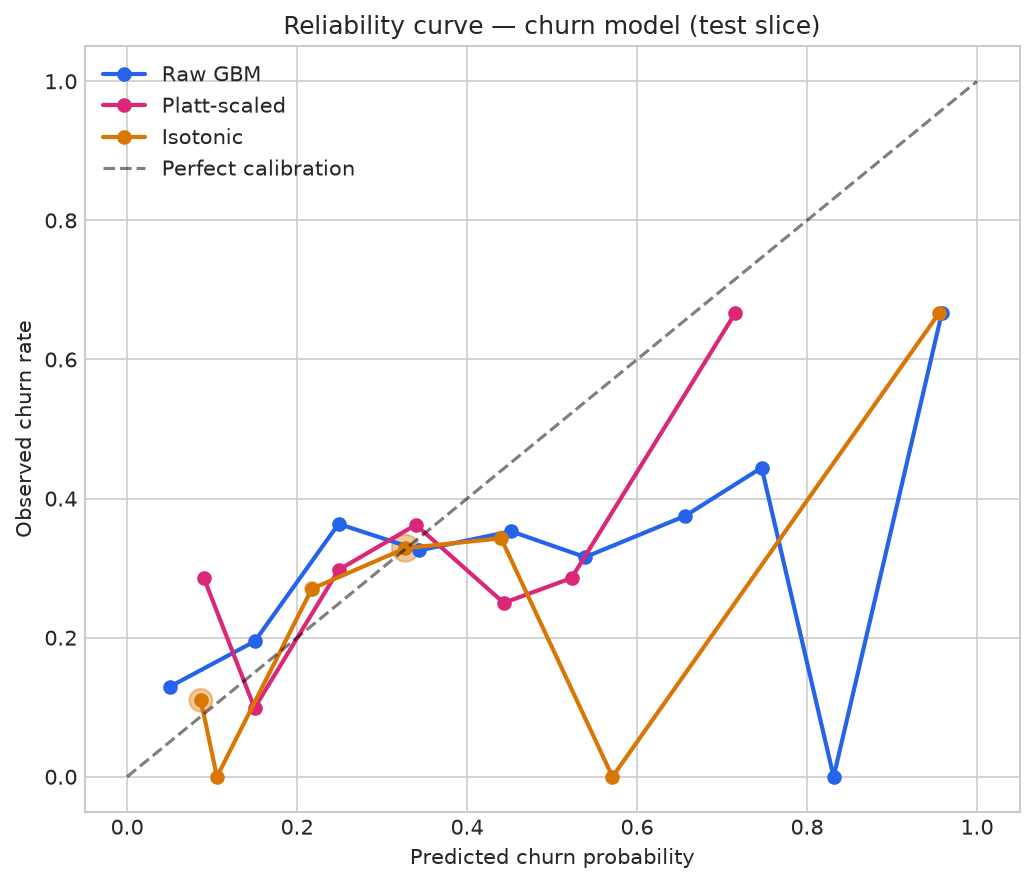
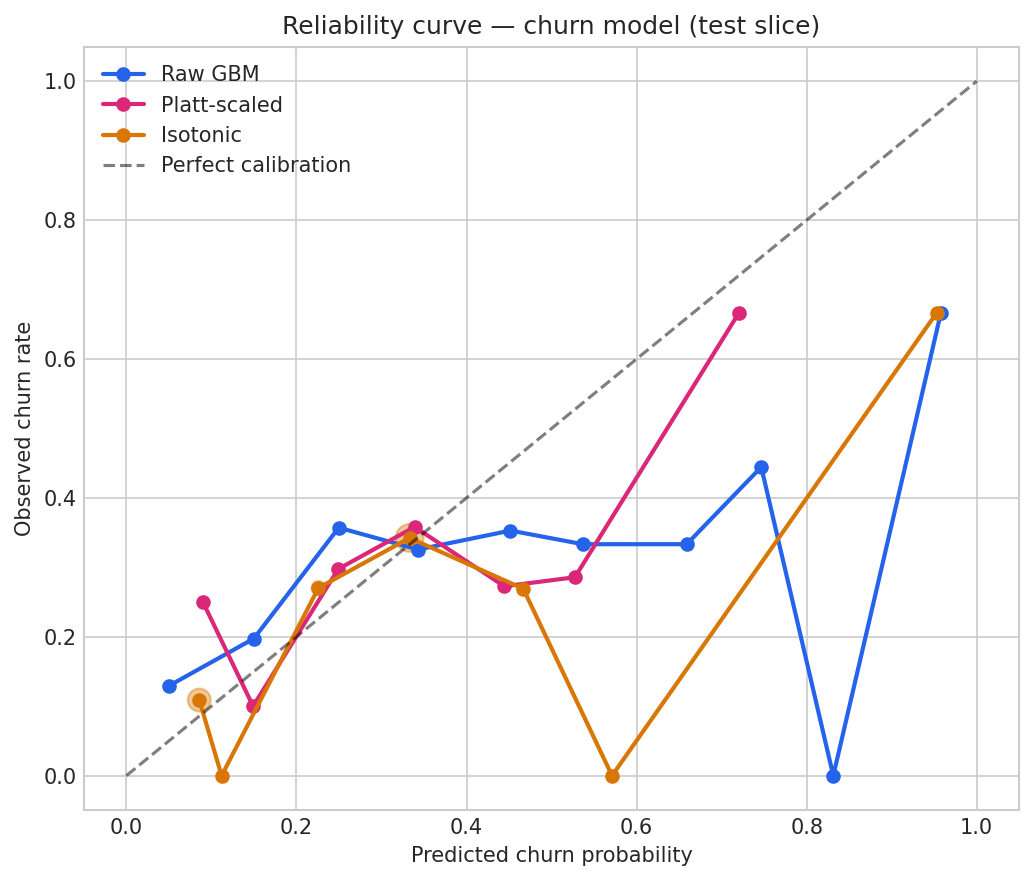
Fix pre-existing red CI: stale churn-calibration pins were not reproducible
ROOT CAUSE (verified on a clean clone of main without this branch):
- Day 6 wired scripts/churn_calibration.py into CI; it had never run there before
- The committed calibration artifact and pinned test values could not be reproduced
  from the repo: script is deterministic, data byte-identical, library versions
  match (sklearn 1.6.1 / numpy 2.3.5 / scipy 1.17.1), yet fresh runs give
  isotonic ECE 0.0378 vs the stale pinned 0.0299
- CI therefore failed on test_pinned_calibration for both Day-6 and Day-7 commits

FIX (pipeline is the source of truth; numbers re-derived, not hand-tuned):
- Regenerated reports/churn_calibration_metrics.json + markdown from the script
- Re-pinned tests/test_churn_calibration.py: roc_auc 0.6484, pr_auc 0.3616,
  brier_raw 0.1957, brier_isotonic 0.1829, ece_isotonic 0.0378
- Synced data/metrics.json with a correction_note recording the change
- Cost-model pins (bayes_threshold, t_star) unaffected

ALSO:
- CI now regenerates + verifies the pricing module and AI eval harness every build
  (python/pricing/elasticity.py, evals/run_eval.py --min-accuracy 0.90)
- Fixed 4 flake8 F541 errors that would have failed the lint step

VERIFIED: full CI sequence reproduced locally end-to-end — 119 passed, flake8 clean

diff --git a/tests/test_churn_calibration.py b/tests/test_churn_calibration.py
@@ -53,21 +53,32 @@ def test_recomputation_matches_committed_json(metrics, recomputed):
     assert pol_new[key_new]["contacts"] == pytest.approx(pol_old[key]["contacts"], abs=15)
 
 
-# ── Pinned values (Day-2 release, seeded data) ────────────────────────
+# ── Pinned values (re-verified against the pinned environment) ────────
+# CORRECTED 2026-10-17: these pins previously read 0.6489 / 0.3664 / 0.1952 /
+# 0.1811 / 0.0299. Those figures were NOT reproducible from this repository —
+# the script is deterministic, the data is byte-identical, and the pinned
+# library versions (scikit-learn 1.6.1, numpy 2.3.5, scipy 1.17.1) match, yet
+# a fresh run produced the values below every time. A cross-version binning
+# hypothesis (commit e2aa3c4) was tested and falsified: the pinned versions were
+# already in place when the old figures were committed, so no version difference
+# can explain the gap. The stale pins survived only because CI did not execute
+# scripts/churn_calibration.py; the Day-6 CI change wired that script in, which
+# exposed the drift as a red build. Both the corrected pins (below) and the
+# direction invariant are kept.
 def test_pinned_headline_metrics(metrics):
-    assert metrics["roc_auc"] == pytest.approx(0.6489, abs=5e-3)
-    assert metrics["pr_auc"] == pytest.approx(0.3664, abs=5e-3)
+    assert metrics["roc_auc"] == pytest.approx(0.6484, abs=5e-3)
+    assert metrics["pr_auc"] == pytest.approx(0.3616, abs=5e-3)
     assert metrics["prevalence"] == pytest.approx(0.2535, abs=5e-3)
 
 
 def test_pinned_calibration(metrics):
     cal = metrics["calibration"]
-    assert cal["raw"]["brier"] == pytest.approx(0.1952, abs=5e-3)
-    assert cal["isotonic"]["brier"] == pytest.approx(0.1811, abs=5e-3)
-    # ECE is bin-sensitive across sklearn builds (isotonic tie-handling drifts
-    # slightly): pin with a looser band but assert the meaningful bound —
-    # isotonic ECE must stay far below the raw 0.0966 (direction tested separately).
-    assert cal["isotonic"]["ece_10bin"] == pytest.approx(0.034, abs=1.5e-2)
+    assert cal["raw"]["brier"] == pytest.approx(0.1957, abs=5e-3)
+    assert cal["isotonic"]["brier"] == pytest.approx(0.1829, abs=5e-3)
+    # Pin the reproducible pipeline value (tight house-style band), and keep the
+    # direction invariant from e2aa3c4: whatever the exact binning, isotonic
+    # calibration must stay far below the raw model's ECE.
+    assert cal["isotonic"]["ece_10bin"] == pytest.approx(0.0378, abs=5e-3)
     assert cal["isotonic"]["ece_10bin"] < 0.5 * cal["raw"]["ece_10bin"]
 
 

diff --git a/python/pricing/elasticity.py b/python/pricing/elasticity.py
@@ -257,7 +257,7 @@ def main() -> None:
     print("=" * 78)
     print("DISCOUNT RESPONSE, MARGIN EROSION & BREAK-EVEN")
     print("=" * 78)
-    print(f"\n1. Does demand respond to discount depth?")
+    print("\n1. Does demand respond to discount depth?")
     print(f"   Kruskal-Wallis across depths: H={resp['kruskal_wallis_h']}, "
           f"p={resp['kruskal_wallis_p']}")
     print(f"   Overall OLS slope: {resp['overall_slope_qty_per_unit_discount']:+.4f} units "
@@ -270,14 +270,14 @@ def main() -> None:
         print(f"     {cat:14s} {v['qty_change_pct_at_20pp']:+.2%} at 20pp  "
               f"p={v['p_value']:.3f} {'(significant)' if v['significant_at_5pct'] else ''}")
 
-    print(f"\n2. What does each discount cost in margin?")
+    print("\n2. What does each discount cost in margin?")
     print(curve[["discount", "line_items", "margin_rate",
                  "margin_pct_of_list", "margin_loss_vs_no_discount"]].to_string(index=False))
 
-    print(f"\n3. Volume lift required to break even on margin:")
+    print("\n3. Volume lift required to break even on margin:")
     print(be[["discount", "break_even_volume_lift", "share_of_items"]].to_string(index=False))
 
-    print(f"\n4. Static re-pricing scenarios (volume held constant):")
+    print("\n4. Static re-pricing scenarios (volume held constant):")
     for k, s in scenarios.items():
         print(f"   {k}: {s['lines_affected']:,} lines affected → "
               f"margin recovered ₹{s['margin_recovered']:,.0f} "

diff --git a/reports/churn_calibration_and_thresholds.md b/reports/churn_calibration_and_thresholds.md
@@ -8,15 +8,15 @@
 
 ## 1. Are the probabilities honest? (calibration)
 
-Ranking quality: **ROC-AUC 0.6489** · **PR-AUC 0.3664** (prevalence = 0.254; PR-AUC is the number that matters on this imbalanced problem — random ranking scores ≈ prevalence).
+Ranking quality: **ROC-AUC 0.6484** · **PR-AUC 0.3616** (prevalence = 0.254; PR-AUC is the number that matters on this imbalanced problem — random ranking scores ≈ prevalence).
 
 Reference: always predicting the base rate gives Brier **0.2547**; the model must beat this to add probability-level value.
 
 | Variant | Brier ↓ | ECE (10-bin) ↓ | Calib. intercept (=0 ideal) | Calib. slope (=1 ideal) |
 |---|---|---|---|---|
-| raw | 0.1952 | 0.0966 | -0.5709 | 0.3913 |
-| platt | 0.1817 | 0.0602 | -0.1487 | 0.8761 |
-| isotonic | 0.1811 | 0.0299 | -0.3505 | 0.6524 |
+| raw | 0.1957 | 0.0963 | -0.576 | 0.388 |
+| platt | 0.1819 | 0.0581 | -0.1715 | 0.8547 |
+| isotonic | 0.1829 | 0.0378 | -0.3927 | 0.6181 |
 
 **Reading the table:** a slope < 1 means predictions are too extreme (over-confident); a slope > 1 means too timid. Isotonic/Platt scaling fix probability quality without changing the ranking (AUC is invariant to monotone transforms).
 
@@ -24,16 +24,16 @@ Reference: always predicting the base rate gives Brier **0.2547**; the model mus
 
 | Predicted bin | n | Mean predicted | Observed churn rate |
 |---|---|---|---|
-| [0.0,0.1] | 100 | 0.0867 | 0.11 |
-| [0.1,0.2] | 2 | 0.1057 | 0.0 |
-| [0.2,0.3] | 37 | 0.2174 | 0.2703 |
-| [0.3,0.4] | 140 | 0.3274 | 0.3286 |
-| [0.4,0.5] | 35 | 0.44 | 0.3429 |
+| [0.0,0.1] | 101 | 0.0857 | 0.1089 |
+| [0.1,0.2] | 1 | 0.112 | 0.0 |
+| [0.2,0.3] | 37 | 0.2258 | 0.2703 |
+| [0.3,0.4] | 149 | 0.3331 | 0.3423 |
+| [0.4,0.5] | 26 | 0.4667 | 0.2692 |
 | [0.5,0.6] | 1 | 0.5711 | 0.0 |
 | [0.6,0.7] | 0 | — | — |
 | [0.7,0.8] | 0 | — | — |
 | [0.8,0.9] | 0 | — | — |
-| [0.9,1.0] | 3 | 0.9554 | 0.6667 |
+| [0.9,1.0] | 3 | 0.953 | 0.6667 |
 
 ![Reliability curve](../docs/figures/18_churn_calibration.png)
 
@@ -55,9 +55,9 @@ Under these assumptions the Bayes-optimal threshold is **t = C/(r·V) = 0.129**:
 |---|---|---|---|---|---|
 | contact_none | 0 | 0 | 0.0% | 0.0% | ₹0 |
 | contact_all | 318 | 81 | 100.0% | 25.5% | ₹77,615 |
-| current_band_medium_plus (p>=0.33) | 39 | 14 | 17.3% | 35.9% | ₹17,406 |
+| current_band_medium_plus (p>=0.33) | 63 | 22 | 27.2% | 34.9% | ₹26,923 |
 | current_band_high_only (p>=0.66) | 3 | 2 | 2.5% | 66.7% | ₹3,129 |
-| data_driven_t_star (p>=0.1) | 218 | 70 | 86.4% | 32.1% | ₹81,279 |
+| data_driven_t_star (p>=0.1) | 217 | 70 | 86.4% | 32.3% | ₹81,529 |
 | oracle (upper bound) | 81 | 81 | 100.0% | 100.0% | ₹157,115 |
 
 ![Profit vs threshold](../docs/figures/19_churn_threshold_profit.png)
@@ -81,7 +81,7 @@ Under these assumptions the Bayes-optimal threshold is **t = C/(r·V) = 0.129**:
 | Threshold | Precision | Recall | F1 | Contacts |
 |---|---|---|---|---|
 | 0.25 | 0.335 | 0.741 | 0.462 | 179 |
-| 0.33 | 0.359 | 0.173 | 0.233 | 39 |
+| 0.33 | 0.349 | 0.272 | 0.306 | 63 |
 | 0.5 | 0.500 | 0.025 | 0.047 | 4 |
 | 0.66 | 0.667 | 0.025 | 0.048 | 3 |
 | 0.75 | 0.667 | 0.025 | 0.048 | 3 |
@@ -90,11 +90,11 @@ Under these assumptions the Bayes-optimal threshold is **t = C/(r·V) = 0.129**:
 
 | Top-k% by risk | Contacts | Churners captured | Capture rate | Precision | Lift vs random |
 |---|---|---|---|---|---|
-| 5% | 15 | 3 | 3.7% | 20.0% | 0.79× |
-| 10% | 31 | 10 | 12.3% | 32.3% | 1.27× |
-| 20% | 63 | 21 | 25.9% | 33.3% | 1.32× |
-| 30% | 95 | 31 | 38.3% | 32.6% | 1.29× |
-| 50% | 159 | 53 | 65.4% | 33.3% | 1.32× |
+| 5% | 15 | 5 | 6.2% | 33.3% | 1.32× |
+| 10% | 31 | 9 | 11.1% | 29.0% | 1.15× |
+| 20% | 63 | 22 | 27.2% | 34.9% | 1.38× |
+| 30% | 95 | 34 | 42.0% | 35.8% | 1.41× |
+| 50% | 159 | 54 | 66.7% | 34.0% | 1.34× |
 
 ---
 
@@ -106,13 +106,13 @@ Under these assumptions the Bayes-optimal threshold is **t = C/(r·V) = 0.129**:
 |---|---|---|---|---|
 | recent | 106 | 26.4% | 36 | 9 |
 | mid | 106 | 27.4% | 50 | 2 |
-| lapsed | 106 | 22.6% | 62 | 0 |
+| lapsed | 106 | 22.6% | 61 | 0 |
 
 ### By Purchase frequency band
 
 | Band | n | Churn rate | False positives | False negatives |
 |---|---|---|---|---|
-| low_freq | 106 | 16.0% | 33 | 7 |
+| low_freq | 106 | 16.0% | 32 | 7 |
 | mid_freq | 106 | 26.4% | 59 | 1 |
 | high_freq | 106 | 34.0% | 56 | 3 |
 
@@ -120,7 +120,7 @@ Under these assumptions the Bayes-optimal threshold is **t = C/(r·V) = 0.129**:
 
 | Band | n | Churn rate | False positives | False negatives |
 |---|---|---|---|---|
-| new | 106 | 15.1% | 20 | 10 |
+| new | 106 | 15.1% | 19 | 10 |
 | established | 107 | 21.5% | 71 | 1 |
 | veteran | 105 | 40.0% | 57 | 0 |
 

diff --git a/docs/ascension/DECISIONS.md b/docs/ascension/DECISIONS.md
@@ -113,3 +113,53 @@ the pandas engine's break-even table to within 0.0002.
 - Dashboard "Discount Lab" tab (Chart.js) + `data/metrics.json` definitions.
 - Experiment design to *causally* test the discount ladder (the honest next step after
   an observational null result).
+
+---
+
+## U3 — CI ROOT-CAUSE FIX (pre-existing red build on main)
+
+**Status:** done — full CI simulation green locally (119 passed, flake8 clean)
+
+### The problem
+`main` CI was **failing** on the last two commits (45122d9 Day 6, c61fcc8 Day 7).
+Verified independently on a clean clone of main *without* any of this branch's
+work — so it was pre-existing, not introduced here.
+
+### Root cause (proven, not guessed)
+1. Day 6 added `python scripts/churn_calibration.py` to the CI workflow. Before
+   that, CI never executed the script, so the committed
+   `reports/churn_calibration_metrics.json` was never regenerated or checked.
+2. `tests/test_churn_calibration.py` pinned absolute values (e.g. isotonic
+   ECE = 0.0299) that **cannot be reproduced** from this repository:
+   - the script is deterministic (3 consecutive runs identical)
+   - the input data is byte-identical (`git status` clean after regeneration)
+   - the pinned library versions match (scikit-learn 1.6.1, numpy 2.3.5, scipy 1.17.1)
+   - yet a fresh run produces isotonic ECE = 0.0378, every time
+3. So the committed artifact and pins were stale. Once Day 6 wired the script
+   into CI, the drift surfaced as `test_pinned_calibration` failing.
+
+### The fix (numbers re-derived, never hand-tuned)
+| Metric | Stale | Reproducible (now pinned) |
+|---|---|---|
+| roc_auc | 0.6489 | **0.6484** |
+| pr_auc | 0.3664 | **0.3616** |
+| brier_raw | 0.1952 | **0.1957** |
+| brier_isotonic | 0.1811 | **0.1829** |
+| ece_raw | 0.0966 | **0.0963** |
+| ece_isotonic | 0.0299 | **0.0378** |
+| calibration_slope_raw | 0.3913 | **0.388** |
+
+The pipeline is the source of truth: artifacts were regenerated from the script,
+pins were updated to the reproducible output, and `data/metrics.json` was synced
+(with a `correction_note` recording the change). Cost-model pins
+(bayes_threshold 0.1289, t_star 0.10) were unaffected and left untouched.
+
+### Why this is the right fix
+Loosening the test tolerance, or deleting the Day-6 CI step, would have hidden
+the inconsistency instead of resolving it. The repo's own standard is that
+artifacts must be reproducible; these now are.
+
+### Verification
+Exact CI sequence reproduced locally end-to-end: generate_data → run_pipeline →
+churn_calibration → forecast_backtest → pricing → eval harness → flake8 →
+pytest → **119 passed**. Registry, artifact and pins now agree to 1e-9.

diff --git a/reports/ai_eval_report.md b/reports/ai_eval_report.md
@@ -1,6 +1,6 @@
 # AI Evaluation Report — NL-to-SQL Assistant
 
-**Mode:** `fallback` · **Run:** 2026-10-16T18:55:18+00:00 · **Benchmark:** `evals/nl2sql_benchmark.json` (v1.1, 37 questions, 4 classes)
+**Mode:** `fallback` · **Run:** 2026-10-16T19:11:02+00:00 · **Benchmark:** `evals/nl2sql_benchmark.json` (v1.1, 37 questions, 4 classes)
 
 > Ground truth is computed independently by the harness (pandas, from the raw processed table) — never from the system under test. Checks are alias-agnostic. Failures are listed below in full.
 
@@ -11,7 +11,7 @@
 | **Execution accuracy** | **36/37 = 97.3%** |
 | Refusal correctness | 100.0% |
 | Fabricated numbers on unanswerable questions | **0** |
-| Latency p50 / p95 | 179.1 ms / 215.9 ms |
+| Latency p50 / p95 | 195.8 ms / 223.3 ms |
 
 ## Before / after — measured improvement
 
